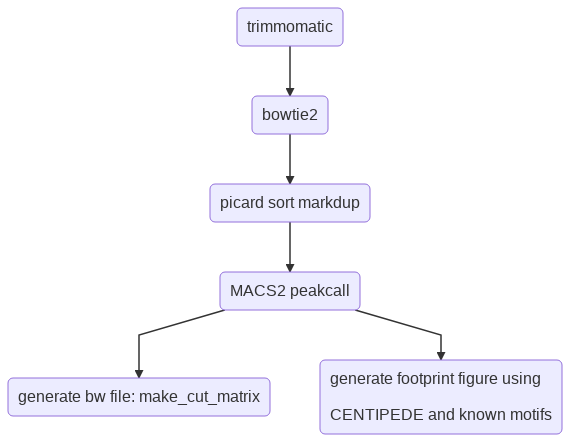
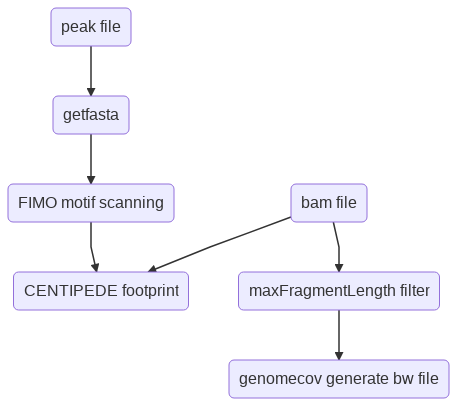
footprint

Changed region(s): [[0.0, 0.0, 1.0, 1.0], [0.0919, 0.0, 0.3063, 0.2365], [0.0919, 0.2365, 0.3063, 0.3251]]

diff --git a/docs/content/NGS_pipelines/cut_run_footprint.rst b/docs/content/NGS_pipelines/cut_run_footprint.rst
@@ -61,6 +61,12 @@ This pipeline takes in a bam file and a narrowPeak file (or any bed file), gener
 
 Only properly-paired reads are used. Users can control maximal fragment size, default is 150bp. For CUT & RUN, some people also use 120bp. You can also use a big number, like 9999, in that case, all sizes of fragment will be used.
 
+Flowchart
+^^^^^^^^^
+
+.. image:: ../../images/cut_run_footprint.png
+	:align: center
+	
 Example
 ^^^^^^^
 
